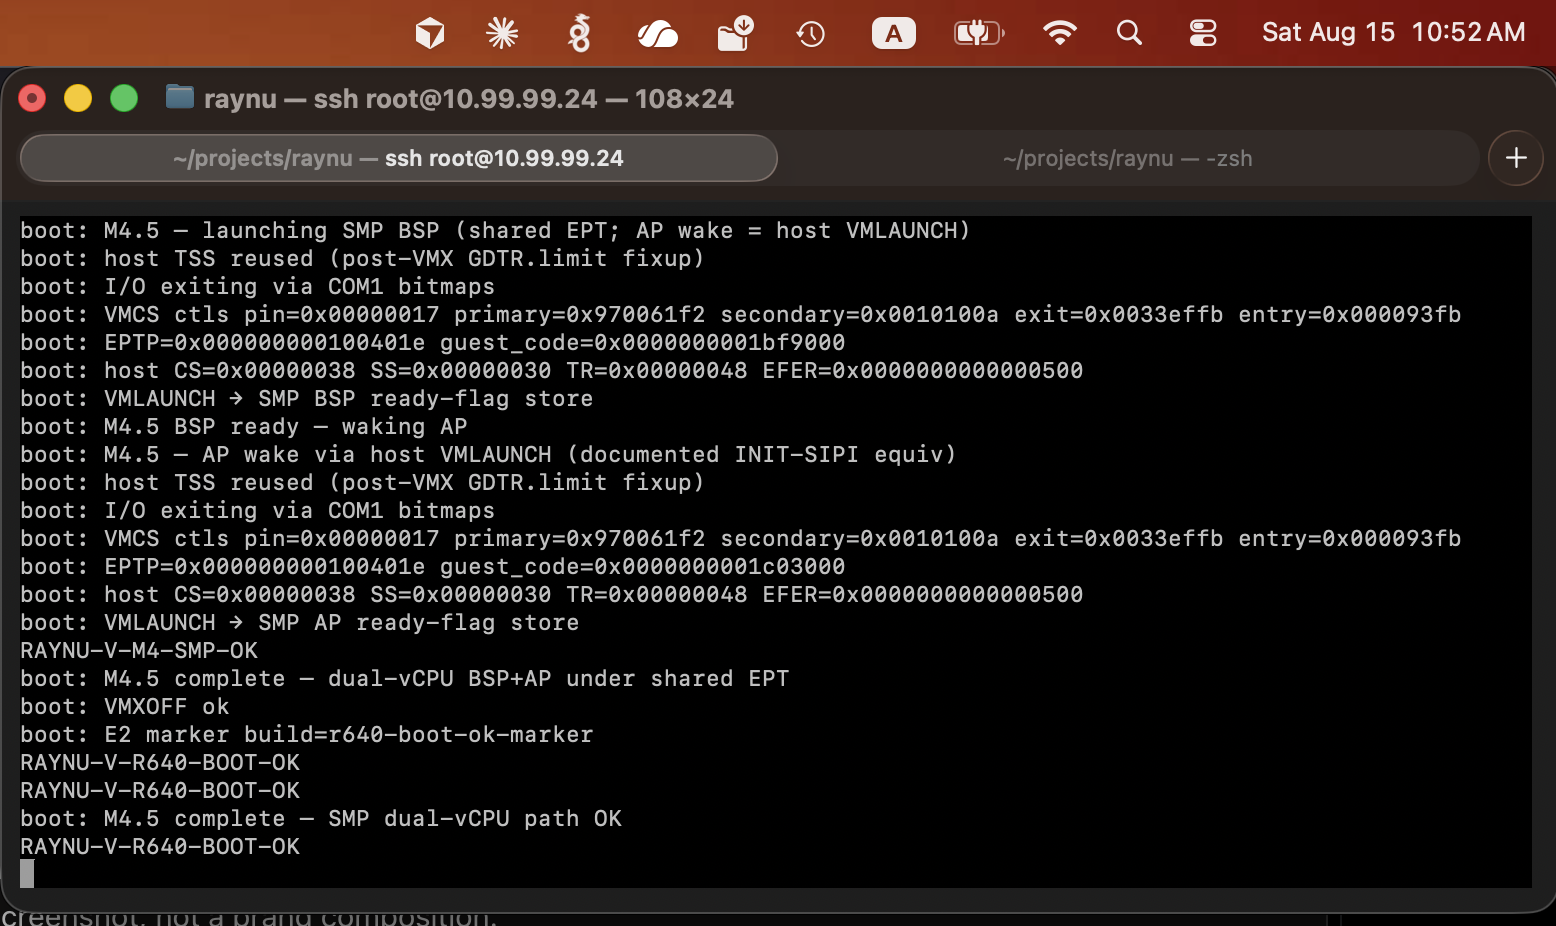
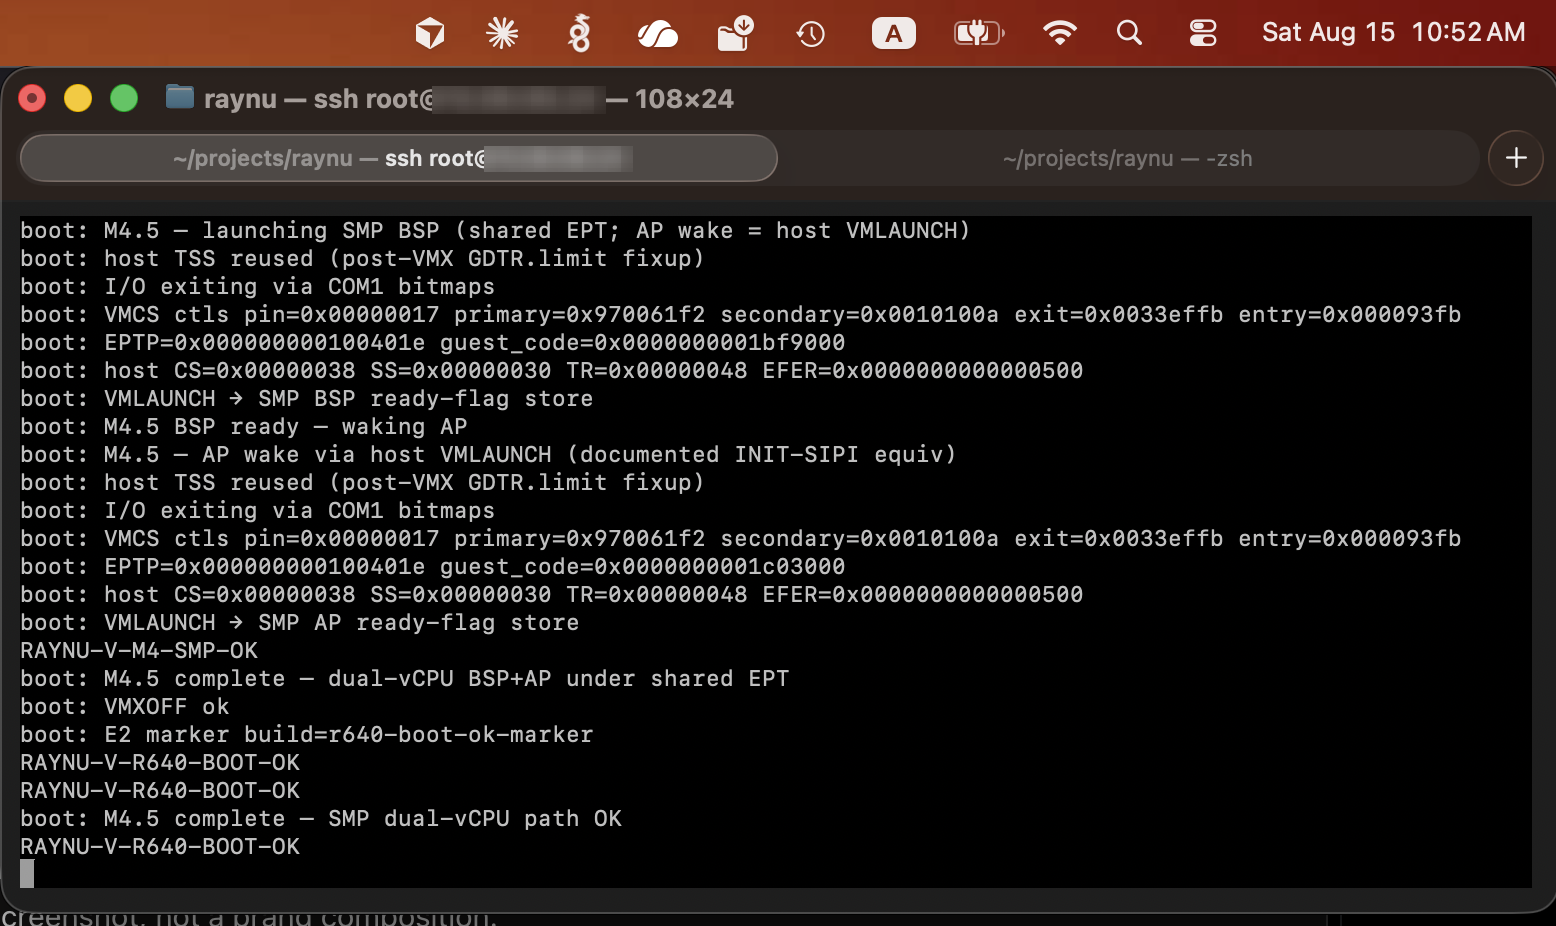
evidence: redact lab IP from Terminal SOL screenshot
Blur 10.99.99.24 in title bar and tab; keep BOOT-OK markers readable.

Changed region(s): [[0.3085, 0.1512, 0.401, 0.2117], [0.2776, 0.0907, 0.401, 0.121]]

diff --git a/docs/evidence/r640/logs/README.md b/docs/evidence/r640/logs/README.md
@@ -12,7 +12,7 @@ paper (§6) and for claiming `RAYNU-V-R640-BOOT-OK`.
 | `2026-08-15-xsavesfix-com2.txt` | `releases/v0.1.0-xsavesfix/` | First closing run: `SHELL-OK` → `M4-SMP-OK` |
 | `2026-08-15-confirm-rebuild-com2.txt` | `dist/` rebuild (same EFI SHA as xsavesfix) | Confirming retest: SHELL→M4→`VMXOFF` |
 | `2026-08-15-boot-ok-marker-com2.txt` | `r640-boot-ok-marker` finish_boot print | **Literal** `RAYNU-V-R640-BOOT-OK` on COM2 after VMXOFF |
-| `2026-08-15-boot-ok-marker-com2.png` | Operator macOS Terminal.app (iDRAC SOL) | Site status + Stories + paper figure |
+| `2026-08-15-boot-ok-marker-com2.png` | Operator macOS Terminal.app (iDRAC SOL); IP redacted for public site | Site status + Stories + paper figure |
 
 Checksums: [`SHA256SUMS`](SHA256SUMS). Narrative:
 [`../2026-08-15-r640-first-light.md`](../2026-08-15-r640-first-light.md).

diff --git a/docs/evidence/r640/2026-08-15-r640-first-light.md b/docs/evidence/r640/2026-08-15-r640-first-light.md
@@ -67,7 +67,7 @@ reached Linux SHELL and the full M4 probe chain on COM2.
 | [`logs/2026-08-15-xsavesfix-com2.txt`](logs/2026-08-15-xsavesfix-com2.txt) | `v0.1.0-xsavesfix` | `8108c772…dfd17` |
 | [`logs/2026-08-15-confirm-rebuild-com2.txt`](logs/2026-08-15-confirm-rebuild-com2.txt) | rebuild / same EFI SHA | `6c87b5d9…f91c0` |
 | [`logs/2026-08-15-boot-ok-marker-com2.txt`](logs/2026-08-15-boot-ok-marker-com2.txt) | `r640-boot-ok-marker` finish_boot | `1f5e5a8f…f7a2e` |
-| [`logs/2026-08-15-boot-ok-marker-com2.png`](logs/2026-08-15-boot-ok-marker-com2.png) | operator Terminal.app SOL screenshot | `7fc28bdc…37a607` |
+| [`logs/2026-08-15-boot-ok-marker-com2.png`](logs/2026-08-15-boot-ok-marker-com2.png) | operator Terminal.app SOL screenshot (IP redacted) | `516825d9…831cf1` |
 
 Reproduce: [`logs/README.md`](logs/README.md).
 
